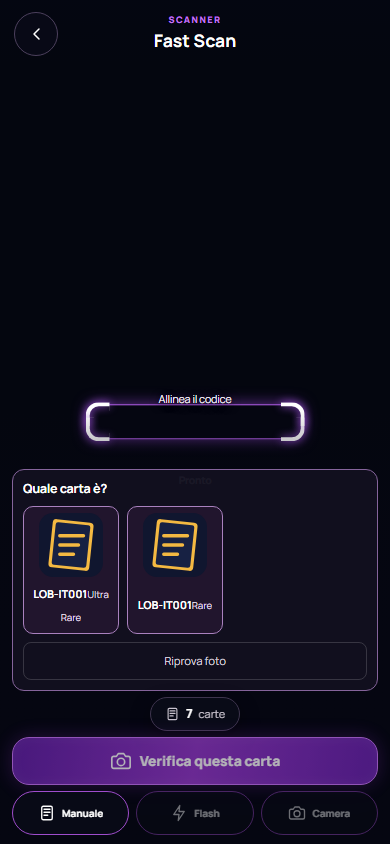
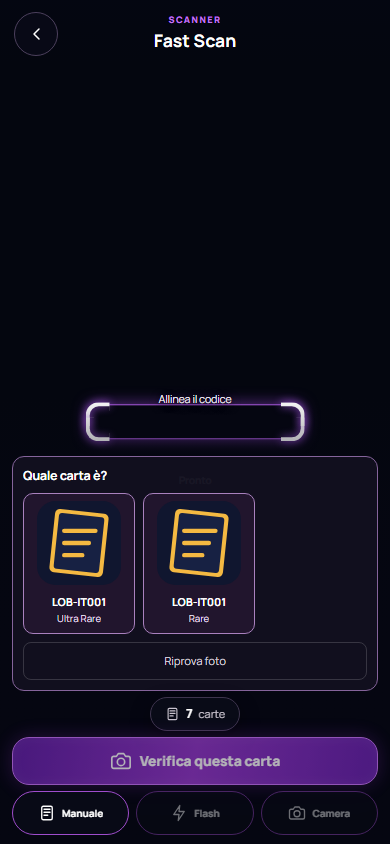
feat(fast-scan): varianti artwork nel picker inline; UX production-ready
Artwork variant (CH01-EN015 e casi simili): quando il registro segnala più
artwork REALI per la stessa identità carta (ygo_artwork_index.artwork_count
>1, mai una stima), il picker "Quale carta è?" mostra ora tutte le opzioni
note invece del placeholder vuoto di un'unica riga "unresolved". Nessuna
seconda logica artwork: riusa esattamente l'infrastruttura esistente
(ygo_printing_registry/ygo_artwork_index via externalLookupViaRegistry) più
i card_images reali di YGOPRODeck (già usati altrove per imageIds/alias, mai
per assumere quale sia quello giusto — qui si mostrano TUTTI, la scelta resta
dell'utente, mai un guess). Ogni opzione porta il proprio catalogCardId reale
(mai inventato), quindi due artwork della stessa carta restano naturalmente
due candidati distinti nel modello identità già esistente
(game:catalogCardId:setCode:rarity) — non serve una nuova dimensione di
chiave. Le opzioni mostrano rarità reale identica + label "Standard"/
"Artwork alternativa"; la rarity non è mai stata reintrodotta come
"New artwork" (root cause del turno precedente, qui solo riverificata).
La scelta sopravvive a session entry e payload di salvataggio, verificato
end-to-end con la fixture CH01-EN015 richiesta.

UX production-ready: la cronologia tecnica completa (eventi, tentativi,
correzioni) è ora dietro this.debugMode nella schermata di sessione — visibile
SOLO con ?debugScan=1, mai nel flusso normale (verificato in entrambi gli
[…]

Changed region(s): [[0.0308, 0.5545, 0.3077, 0.7393], [0.3385, 0.5853, 0.5846, 0.7393]]

diff --git a/js/fast-scan.js b/js/fast-scan.js
@@ -107,7 +107,11 @@ export class FastScanController {
     if(!event||event.status!=='REVIEW_REQUIRED'||!matches?.length)return '';
     const options=matches.slice(0,4);
     const title=options.length>1?'Quale carta è?':'Confermi questa carta?';
-    return `<article class="scan-ambiguous" aria-live="polite"><strong>${title}</strong><div class="scan-ambiguous-options">${options.map((match,index)=>`<button type="button" data-scan-choice="${index}" data-scan-id="${event.id}">${match.imageUrl?`<img src="${esc(match.imageUrl)}" alt="">`:''}<span><b>${esc(match.setCode||'')}</b><small>${esc(match.rarity||'Rarità non indicata')}</small></span></button>`).join('')}</div><button type="button" class="scan-ambiguous-retry" data-scan-retry="${event.id}">Riprova foto</button></article>`;
+    // artworkLabel è presente SOLO quando l'ambiguità riguarda l'illustrazione
+    // (stesso catalogCardId/set/rarità reali, il registro conferma più artwork
+    // note): mai una seconda rarità inventata, solo l'etichetta Standard/
+    // Artwork alternativa accanto ai dati reali già mostrati.
+    return `<article class="scan-ambiguous" aria-live="polite"><strong>${title}</strong><div class="scan-ambiguous-options">${options.map((match,index)=>`<button type="button" data-scan-choice="${index}" data-scan-id="${event.id}">${match.imageUrl?`<img src="${esc(match.imageUrl)}" alt="">`:''}<span><b>${esc(match.setCode||'')}</b><small>${esc(match.rarity||'Rarità non indicata')}</small>${match.artworkLabel?`<small class="scan-ambiguous-label">${esc(match.artworkLabel)}</small>`:''}</span></button>`).join('')}</div><button type="button" class="scan-ambiguous-retry" data-scan-retry="${event.id}">Riprova foto</button></article>`;
   }
   historyView(all=false){
     const events=this.buffer.scanEvents.filter(event=>event.countsAsScan!==false),visible=all?events:events.slice(-5);
@@ -149,7 +153,7 @@ export class FastScanController {
   scannerView(){return `<section class="fast-scan-live ${this.cameraError?'manual-camera':''}"><video id="fast-scan-video" autoplay muted playsinline></video><div class="live-scan-shade"></div><header class="live-scan-header"><button class="live-icon-button" data-scan-back aria-label="Indietro">${icon('arrow')}</button><div><small>Scanner</small><strong>Fast Scan</strong></div><span class="live-header-spacer" aria-hidden="true"></span></header>${this.cameraError?`<div class="live-camera-error"><span>${icon('bell')}</span><strong>${esc(this.cameraError)}</strong><small>Puoi continuare tramite inserimento manuale.</small></div>`:''}<div class="live-roi-label">Allinea il codice</div><div class="live-roi" aria-label="Area di lettura codice"><i></i><span></span></div>${this.debugMode?'<aside class="live-crop-debug" aria-live="polite"><strong>Crop OCR esatto</strong><canvas data-scan-debug-crop></canvas><small data-scan-debug-geometry>In attesa dello scatto</small><small data-scan-debug-stats>In attesa di scan misurati</small><div class="live-crop-debug-export"><button type="button" data-scan-export-telemetry="json">Esporta JSON</button><button type="button" data-scan-export-telemetry="csv">Esporta CSV</button></div></aside>':''}<div class="live-ocr-state"><strong data-scan-status>${esc(this.status)}</strong></div><div class="live-detection ${this.detection?`show ${this.detection.tone}`:''}" data-scan-detection role="status" aria-live="polite" aria-atomic="true">${this.detectionContent(this.detection)}</div><div class="live-background-result ${this.backgroundNotice?`show ${this.backgroundNotice.tone}`:''}" data-scan-background-result role="status" aria-live="polite" aria-atomic="true">${this.detectionContent(this.backgroundNotice)}</div><footer class="live-scan-bottom"><div class="live-scan-content"><div data-scan-assistant>${this.assistantView()}</div><button type="button" class="live-session-count" data-scan-history-review>${icon('card')}<b data-scan-total-number>${this.buffer.total}</b> carte</button><button type="button" class="live-capture" data-scan-capture ${this.snapshotInFlight?'disabled':''}>${icon('camera')}<span>${this.snapshotInFlight?'Elaborazione…':'Scatta e analizza'}</span></button><div class="live-controls"><button data-scan-manual-open>${icon('card')}<span>Manuale</span></button><button data-scan-torch ${this.camera.torchSupported?'':'disabled'}>${icon('flash')}<span>Flash</span></button><button data-scan-switch-camera ${this.devices.length>1?'':'disabled'}>${icon('camera')}<span>Camera</span></button></div></div></footer>${this.exitSheetView()}${this.manualSheetView()}</section>`;}
   exitSheetView(){return `<div class="scan-sheet-backdrop hidden" data-scan-exit-sheet><section class="scan-bottom-sheet" role="dialog" aria-modal="true" aria-labelledby="scan-exit-title"><span class="sheet-handle"></span><small>Sessione Fast Scan</small><h2 id="scan-exit-title">Hai finito?</h2><p>Vediamo cos’hai raccolto allora?</p><div class="sheet-session-summary"><b>${this.buffer.scanned} carte scansionate</b><span>${this.buffer.entries.size} printing · ${this.buffer.review.length} da verificare</span></div><button class="btn" data-scan-confirm-review>Sì, mostrami</button><button class="btn secondary" data-scan-cancel-exit>No, continua a scansionare</button><button class="sheet-danger" data-scan-discard-exit>Scarta sessione</button></section></div>`;}
   manualSheetView(){return `<div class="scan-sheet-backdrop hidden" data-scan-manual-sheet><section class="scan-bottom-sheet" role="dialog" aria-modal="true" aria-labelledby="scan-manual-title"><span class="sheet-handle"></span><small>Fallback</small><h2 id="scan-manual-title">Inserisci codice manualmente</h2><form id="scan-manual-form"><input id="scan-manual-code" autocomplete="off" autocapitalize="characters" placeholder="Es. TDGS-IT001" required><button class="btn">Aggiungi</button></form><button class="btn secondary" data-scan-manual-close>Chiudi</button></section></div>`;}
-  reviewView(){const entries=[...this.buffer.entries.values()],progress=syncProgress(this.sync),failed=this.sync?.status==='error';return `<section class="page-stack fast-scan-page scan-review"><header class="page-header split"><div><span class="eyebrow">Review sessione</span><h1>${this.buffer.scanned} carte rilevate</h1><p>${entries.length} printing · ${this.buffer.review.length} da verificare</p></div><button class="btn secondary" data-scan-continue>Continua scansione</button></header>${failed?`<section class="surface scan-sync-warning" role="alert"><strong>Sincronizzazione interrotta. I tuoi scan sono salvati sul dispositivo.</strong><small>${progress.synced}/${progress.total} blocchi completati · al retry saranno inviati soltanto quelli mancanti.</small><div class="actions"><button class="btn" data-scan-save>Riprova sincronizzazione</button><button class="btn secondary" data-scan-sync-later>Continua più tardi</button><button class="btn secondary" data-scan-export>Esporta riepilogo</button></div></section>`:''}${this.buffer.review.length?`<section class="surface"><h2>Da verificare</h2><div class="scan-review-list">${this.buffer.review.map(item=>reviewRow(item)).join('')}</div></section>`:''}<section class="surface"><div class="dashboard-title"><div><span class="eyebrow">Pronte al salvataggio</span><h2>Printing riconosciute</h2></div></div><div class="scan-review-list">${entries.length?entries.map(entry=>entryRow(entry)).join(''):'<div class="empty">Nessuna printing confermata.</div>'}</div></section><section class="surface scan-history-review" data-scan-history>${this.historyView(true)}</section><div class="scan-save-bar"><span><b>${this.buffer.total}</b> carte saranno aggiunte alla tua raccolta · ${this.buffer.scanEvents.filter(scan=>!['CONFIRMED','CANCELLED'].includes(scan.status)).length} scatti irrisolti esclusi${this.saving&&progress.total?` · ${progress.percent}%`:''}</span><button class="btn" data-scan-save ${!entries.length||this.saving||this.buffer.review.some(item=>item.pending)||!this.isOnline()?'disabled':''}>${this.saving?'Sincronizzazione…':failed?'Riprova sincronizzazione':'Salva raccolta'}</button></div></section>`;}
+  reviewView(){const entries=[...this.buffer.entries.values()],progress=syncProgress(this.sync),failed=this.sync?.status==='error';return `<section class="page-stack fast-scan-page scan-review"><header class="page-header split"><div><span class="eyebrow">Review sessione</span><h1>${this.buffer.scanned} carte rilevate</h1><p>${entries.length} printing · ${this.buffer.review.length} da verificare</p></div><button class="btn secondary" data-scan-continue>Continua scansione</button></header>${failed?`<section class="surface scan-sync-warning" role="alert"><strong>Sincronizzazione interrotta. I tuoi scan sono salvati sul dispositivo.</strong><small>${progress.synced}/${progress.total} blocchi completati · al retry saranno inviati soltanto quelli mancanti.</small><div class="actions"><button class="btn" data-scan-save>Riprova sincronizzazione</button><button class="btn secondary" data-scan-sync-later>Continua più tardi</button><button class="btn secondary" data-scan-export>Esporta riepilogo</button></div></section>`:''}${this.buffer.review.length?`<section class="surface"><h2>Da verificare</h2><div class="scan-review-list">${this.buffer.review.map(item=>reviewRow(item)).join('')}</div></section>`:''}<section class="surface"><div class="dashboard-title"><div><span class="eyebrow">Pronte al salvataggio</span><h2>Printing riconosciute</h2></div></div><div class="scan-review-list">${entries.length?entries.map(entry=>entryRow(entry)).join(''):'<div class="empty">Nessuna printing confermata.</div>'}</div></section>${this.debugMode?`<section class="surface scan-history-review" data-scan-history>${this.historyView(true)}</section>`:''}<div class="scan-save-bar"><span><b>${this.buffer.total}</b> carte saranno aggiunte alla tua raccolta · ${this.buffer.scanEvents.filter(scan=>!['CONFIRMED','CANCELLED'].includes(scan.status)).length} scatti irrisolti esclusi${this.saving&&progress.total?` · ${progress.percent}%`:''}</span><button class="btn" data-scan-save ${!entries.length||this.saving||this.buffer.review.some(item=>item.pending)||!this.isOnline()?'disabled':''}>${this.saving?'Sincronizzazione…':failed?'Riprova sincronizzazione':'Salva raccolta'}</button></div></section>`;}
   bind(root=document){this.reattachVideo();this.updateCaptureUi(this.snapshotInFlight);root.querySelector('#fast-scan-settings')?.addEventListener('submit',e=>{e.preventDefault();this.readSettings();void this.start();});root.querySelector('[data-scan-setup-back]')?.addEventListener('click',()=>void this.exitToCollection());root.querySelector('[data-scan-manual-start]')?.addEventListener('click',()=>{this.readSettings();this.startManual();});root.querySelector('[data-scan-resume-session]')?.addEventListener('click',()=>{this.hasRecovery=false;void this.start();});root.querySelector('[data-scan-recovery-review]')?.addEventListener('click',()=>void this.openReview());root.querySelector('[data-scan-discard]')?.addEventListener('click',()=>void this.discard());root.querySelector('[data-scan-back]')?.addEventListener('click',()=>void this.requestExit());root.querySelector('[data-scan-confirm-review]')?.addEventListener('click',()=>void this.openReview());root.querySelector('[data-scan-cancel-exit]')?.addEventListener('click',()=>this.cancelExit());root.querySelector('[data-scan-discard-exit]')?.addEventListener('click',()=>void this.discardAndExit());root.querySelector('[data-scan-continue]')?.addEventListener('click',()=>{if(!this.canEditSession())return;this.onRoute?.('scan');void this.start();});root.querySelector('[data-scan-manual-open]')?.addEventListener('click',()=>this.toggleManual(true));root.querySelector('[data-scan-history-review]')?.addEventListener('click',()=>void this.openReview());root.querySelector('[data-scan-manual-close]')?.addEventListener('click',()=>this.toggleManual(false));root.querySelector('[data-scan-capture]')?.addEventListener('click',()=>this.requestSnapshot());root.querySelector('[data-scan-torch]')?.addEventListener('click',async e=>{const on=await this.camera.toggleTorch();e.currentTarget.classList.toggle('active',on);e.currentTarget.querySelector('span').textContent=on?'Flash on':'Flash';});root.querySelector('[data-scan-switch-camera]')?.addEventListener('click',()=>void this.switchCamera());root.querySelector('#scan-manual-form')?.addEventListener('submit',e=>{e.preventDefault();const input=root.querySelector('#scan-manual-code');void (this.editScanId?this.correctReview(this.editScanId,input.value):this.processManual(input.value)).then(()=>{input.value='';input.focus();});});root.querySelectorAll('[data-scan-qty-inc]').forEach(button=>button.addEventListener('click',()=>{if(!this.canEditSession())return;const key=button.dataset.scanQtyInc,item=this.buffer.entries.get(key);if(!item)return;this.invalidateSync();this.buffer.updateQuantity(key,item.quantity+1);this.persist();this.onRender();}));root.querySelectorAll('[data-scan-qty-dec]').forEach(button=>button.addEventListener('click',()=>{if(!this.canEditSession())return;const key=button.dataset.scanQtyDec,item=this.buffer.entries.get(key);if(!item)return;this.invalidateSync();this.buffer.updateQuantity(key,item.quantity-1);this.persist();this.onRender();}));root.querySelectorAll('[data-scan-first-edition]').forEach(button=>button.addEventListener('click',()=>{if(!this.canEditSession())return;const key=button.dataset.scanFirstEdition,item=this.buffer.entries.get(key);if(!item)return;this.invalidateSync();this.buffer.setEdition(key,isFirstEdition(item.edition)?'Unlimited':'Prima Edizione');this.persist();this.onRender();}));root.querySelectorAll('[data-scan-remove]').forEach(button=>button.addEventListener('click',()=>{if(!this.canEditSession())return;this.invalidateSync();this.buffer.updateQuantity(button.dataset.scanRemove,0);this.persist();this.onRender();}));root.querySelectorAll('[data-review-choice]').forEach(button=>button.addEventListener('click',()=>this.chooseReview(button.dataset.reviewId,Number(button.dataset.reviewChoice))));root.querySelectorAll('[data-review-ignore]').forEach(button=>button.addEventListener('click',()=>{if(!this.canEditSession())return;this.invalidateSync();this.buffer.removeReview(button.dataset.reviewIgnore);this.persist();this.onRender();}));root.querySelectorAll('[data-review-correct]').forEach(button=>button.addEventListener('click',()=>{const input=root.querySelector(`[data-review-input="${button.dataset.reviewCorrect}"]`);void this.correctReview(button.dataset.reviewCorrect,input.value);}));root.querySelectorAll('[data-scan-save]').forEach(button=>button.addEventListener('click',()=>void this.save()));root.querySelector('[data-scan-sync-later]')?.addEventListener('click',()=>{this.hasRecovery=true;this.onRoute?.('collection');});root.querySelector('[data-scan-export]')?.addEventListener('click',()=>this.exportSummary());root.querySelectorAll('[data-scan-export-telemetry]').forEach(button=>button.addEventListener('click',()=>this.exportTelemetry(button.dataset.scanExportTelemetry)));}
   readSettings(){const pick=id=>document.querySelector(id);this.buffer.settings={game:'yugioh',language:pick('#scan-language')?.value||'Italiano',condition:pick('#scan-condition')?.value||'Near Mint',edition:pick('#scan-edition')?.value.trim()||'',autoAdd:Boolean(pick('#scan-auto')?.checked),vibration:Boolean(pick('#scan-vibration')?.checked),sound:Boolean(pick('#scan-sound')?.checked)};this.persist();}
   startManual(){this.startRequestId+=1;this.camera.stop('manual-mode');this.recoveringCamera=false;this.cameraStarting=false;this.stopLoop();this.phase='scanning';this.cameraError='Modalità manuale';this.status='Inserisci un codice';this.onRoute?.('scan');this.onRender();}
@@ -812,11 +816,11 @@ export function selectSnapshotOcrResult(readings=[],{avoidCode=''}={}){
 function ocrReadingScore(reading){const normalized=normalizeSetCode(reading?.text||''),near=normalized.code.includes('-')&&normalized.code.length>=5;return (normalized.valid?10000:near?1000:0)+(Number(reading?.confidence)||0);}
 function ocrReadingSummary(readings=[]){const values=readings.map(reading=>String(reading?.text||'').replace(/\s+/g,'').replace(/[^A-Z0-9-]/gi,'').toUpperCase()).filter(Boolean);return [...new Set(values)].join(' / ').slice(0,48);}
 function toggle(id,label,checked){return `<label class="scan-toggle"><input id="${id}" type="checkbox" ${checked?'checked':''}><span><strong>${label}</strong><small>${checked?'Attivo':'Disattivato'}</small></span></label>`;}
-function entryRow(item){const firstEdition=isFirstEdition(item.edition);return `<article class="scan-review-row"><div>${item.imageUrl?`<img src="${esc(item.imageUrl)}" alt="">`:icon('card')}<span><strong>${esc(item.cardName)}</strong><small>${esc([item.setCode,item.rarity,item.confidence,item.warning].filter(Boolean).join(' · '))}</small></span></div><div class="scan-review-controls"><div class="scan-qty-stepper"><button type="button" data-scan-qty-dec="${esc(item.key)}" aria-label="Diminuisci quantità">−</button><b>${item.quantity}</b><button type="button" data-scan-qty-inc="${esc(item.key)}" aria-label="Aumenta quantità" ${item.quantity>=999?'disabled':''}>+</button></div><button type="button" class="scan-first-edition-toggle ${firstEdition?'active':''}" data-scan-first-edition="${esc(item.key)}" aria-pressed="${firstEdition}">1ª Ed.</button><button class="btn secondary danger small" data-scan-remove="${esc(item.key)}">Rimuovi</button></div></article>`;}
+function entryRow(item){const firstEdition=isFirstEdition(item.edition);return `<article class="scan-review-row"><div>${item.imageUrl?`<img src="${esc(item.imageUrl)}" alt="">`:icon('card')}<span><strong>${esc(item.cardName)}</strong><small>${esc([item.setCode,item.rarity,item.artworkLabel].filter(Boolean).join(' · '))}</small></span></div><div class="scan-review-controls"><div class="scan-qty-stepper"><button type="button" data-scan-qty-dec="${esc(item.key)}" aria-label="Diminuisci quantità">−</button><b>${item.quantity}</b><button type="button" data-scan-qty-inc="${esc(item.key)}" aria-label="Aumenta quantità" ${item.quantity>=999?'disabled':''}>+</button></div><button type="button" class="scan-first-edition-toggle ${firstEdition?'active':''}" data-scan-first-edition="${esc(item.key)}" aria-pressed="${firstEdition}">1ª Ed.</button><button class="btn secondary danger small" data-scan-remove="${esc(item.key)}">Rimuovi</button></div></article>`;}
 function reviewRow(item){
   // An ignored pending row cannot be resurrected by a late background result.
   if(item.pending)return `<article class="scan-review-row warning pending"><div>${icon('bell')}<span><strong>${esc(item.code||item.raw||'Codice non riconosciuto')}</strong><small>${esc(item.warning||'Verifica in corso…')}</small></span></div><button class="btn secondary small" data-review-ignore="${item.id}">Ignora</button></article>`;
-  return `<article class="scan-review-row warning"><div>${icon('bell')}<span><strong>${esc(item.code||item.raw||'Codice non riconosciuto')}</strong><small>${esc([item.warning,item.ocrConfidence?`confidence ${Math.round(item.ocrConfidence)}%`:''].filter(Boolean).join(' · '))}</small></span></div>${item.matches?.length?`<div class="review-choices">${item.matches.map((match,index)=>`<button class="btn secondary small" data-review-choice="${index}" data-review-id="${item.id}">${esc(match.cardName)} · ${esc(match.rarity||'Rarità non indicata')}</button>`).join('')}</div>`:`<div class="review-correction"><input data-review-input="${item.id}" value="${esc(item.code||'')}" placeholder="Correggi codice"><button class="btn secondary small" data-review-correct="${item.id}">Cerca</button></div>`}<button class="btn secondary small" data-review-ignore="${item.id}">Ignora</button></article>`;
+  return `<article class="scan-review-row warning"><div>${icon('bell')}<span><strong>${esc(item.code||item.raw||'Codice non riconosciuto')}</strong><small>${esc(item.warning||'')}</small></span></div>${item.matches?.length?`<div class="review-choices">${item.matches.map((match,index)=>`<button class="btn secondary small" data-review-choice="${index}" data-review-id="${item.id}">${esc(match.cardName)} · ${esc(match.rarity||'Rarità non indicata')}${match.artworkLabel?` · ${esc(match.artworkLabel)}`:''}</button>`).join('')}</div>`:`<div class="review-correction"><input data-review-input="${item.id}" value="${esc(item.code||'')}" placeholder="Correggi codice"><button class="btn secondary small" data-review-correct="${item.id}">Cerca</button></div>`}<button class="btn secondary small" data-review-ignore="${item.id}">Ignora</button></article>`;
 }
 function mapPrinting(row){return {printingId:row.printing_id||row.printingId||'',game:row.game||'yugioh',catalogCardId:String(row.catalog_card_id||row.catalogCardId||''),cardName:row.card_name||row.cardName,setCode:row.set_code||row.setCode,setName:row.set_name||row.setName||'',rarity:row.rarity||'',imageUrl:row.image_url||row.imageUrl||''};}
 function dedupe(items){return [...new Map(items.map(item=>[[item.printingId,item.catalogCardId,item.setCode,item.rarity].join(':'),item])).values()];}

diff --git a/js/ygo-printing-registry.js b/js/ygo-printing-registry.js
@@ -36,7 +36,7 @@
 // via costruttore invece di importarlo: permette ai test di sostituirlo con
 // un fake senza toccare window/Supabase.
 import { api as defaultApi } from './api.js';
-import { findCard, lookupPrintingBySetCode } from './cards.js';
+import { findCard, findCardById, lookupPrintingBySetCode } from './cards.js';
 
 const YGORESOURCES_BASE = 'https://db.ygoresources.com';
 const FETCH_TIMEOUT_MS = 6000;
@@ -264,6 +264,10 @@ async function toPrinting(setCode, resolution, deps) {
     konamiCardId: resolution.konamiCardId || '', artworkIndex: resolution.artworkIndex || '',
     mappingSource: resolution.mappingSource || '', mappingConfidence: resolution.mappingConfidence || '',
     mappingStatus: resolution.mappingStatus, mappingNotes: resolution.mappingNotes || '',
+    // >1 solo quando ygo_artwork_index conferma più artwork REALI per questo
+    // Konami ID (mai una stima): segnale per il chiamante (Fast Scan) per
+    // esporre le varianti al picker invece di mostrare un placeholder vuoto.
+    artworkCount: Number(resolution.artworkCount) || 0,
     // Sovrascritto dal chiamante una volta noto l'esito reale della
     // persistenza (vedi resolveExternally/resolveYgoPrintings) — di default
     // true perché una parte dei chiamanti di toPrinting (precedenza da
@@ -435,7 +439,8 @@ async function resolveExternally(codes, result, deps) {
         : `Identità nota tramite indice nomi YGOResources (print code non indicizzato) — ${artwork ? `${artwork.artwork_count} artwork disponibili, nessuna regola per scegliere quello corretto` : 'artwork non ancora sincronizzato localmente'}`;
       byNameIndexMappings.push({ code, resolution: {
         konamiCardId, cardName: enName, artworkIndex: deterministic ? '1' : '', artworkUrl: deterministic ? artwork.single_artwork_url : '',
-        mappingSource: 'ygoresources', mappingConfidence: deterministic ? 'high' : 'low', mappingStatus, mappingNotes
+        mappingSource: 'ygoresources', mappingConfidence: deterministic ? 'high' : 'low', mappingStatus, mappingNotes,
+        artworkCount: artwork ? Number(artwork.artwork_count) || 0 : 0
       } });
     }
 
@@ -475,7 +480,8 @@ async function resolveExternally(codes, result, deps) {
       : 'artwork non ancora sincronizzato localmente (scripts/ygo-artwork-index-sync.mjs)');
     const resolution = {
       konamiCardId, artworkIndex: deterministic ? '1' : '', artworkUrl: deterministic ? artwork.single_artwork_url : '',
-      mappingSource: 'ygoresources', mappingConfidence: deterministic ? 'high' : 'low', mappingStatus, mappingNotes
+      mappingSource: 'ygoresources', mappingConfidence: deterministic ? 'high' : 'low', mappingStatus, mappingNotes,
+      artworkCount: artwork ? Number(artwork.artwork_count) || 0 : 0
     };
     mappingsToApply.push({ code, resolution });
   }
@@ -534,11 +540,30 @@ export async function resolveYgoPrinting(setCode, options = {}) {
 // più rarità note per la stessa identità carta, la scelta resta all'utente
 // in review, ma l'immagine è SEMPRE quella verificata dal registro, mai
 // quella indovinata dal vecchio percorso.
-export async function externalLookupViaRegistry(setCode, game = 'yugioh') {
+// options è iniettabile per i test (default: resolveYgoPrinting/findCardById/
+// lookupPrintingBySetCode reali) — stesso pattern di resolveYgoPrintings.
+export async function externalLookupViaRegistry(setCode, game = 'yugioh', options = {}) {
   if (game !== 'yugioh') return [];
-  const printing = await resolveYgoPrinting(setCode);
+  const { findCardByIdImpl = findCardById, lookupPrintingBySetCodeImpl = lookupPrintingBySetCode, ...resolveOptions } = options;
+  const printing = await resolveYgoPrinting(setCode, { ...resolveOptions, lookupPrintingBySetCode: lookupPrintingBySetCodeImpl });
   if (!printing.catalogCardId) return [];
-  const legacyMatches = await lookupPrintingBySetCode(setCode).catch(() => []);
+  // Il registro segnala esplicitamente più artwork REALI per questa identità
+  // Konami (mai una stima): espone le varianti note da YGOPRODeck come
+  // candidati distinti — ognuno con il proprio catalogCardId reale, mai
+  // inventato — invece del placeholder vuoto di un'unica riga "unresolved".
+  // Identità/rarità restano quelle già confermate su questo setCode: solo
+  // artwork e catalogCardId cambiano fra le opzioni.
+  if (printing.mappingStatus === 'unresolved' && printing.artworkCount > 1) {
+    const card = await findCardByIdImpl(printing.catalogCardId, printing.cardName, game).catch(() => null);
+    const variants = card?.artworkVariants || [];
+    if (variants.length > 1) {
+      return variants.map((variant, index) => ({
+        ...printing, catalogCardId: variant.id, imageUrl: variant.imageUrl,
+        artworkLabel: index === 0 ? 'Standard' : 'Artwork alternativa'
+      }));
+    }
+  }
+  const legacyMatches = await lookupPrintingBySetCodeImpl(setCode).catch(() => []);
   const sameIdentity = legacyMatches.filter(match => String(match.catalogCardId) === printing.catalogCardId);
   if (sameIdentity.length > 1) {
     return sameIdentity.map(match => ({

diff --git a/js/fast-scan-core.js b/js/fast-scan-core.js
@@ -138,7 +138,7 @@ export class ScanSessionBuffer {
     // snapshot), a YGOProDeck artwork/reprint tag can never survive as a
     // literal rarity from here on — see js/cards.js sanitizeYugiohRarity.
     const rarity=game==='yugioh'?sanitizeYugiohRarity(value.rarity):(value.rarity||'');
-    return {key:value.key||value.printingId||[game,value.catalogCardId,value.setCode,rarity].join(':'),printingId:value.printingId||'',game,catalogCardId:String(value.catalogCardId||''),cardName:value.cardName||'',setCode:value.setCode||'',setName:value.setName||'',rarity,imageUrl:value.imageUrl||'',language:value.language||(game==='yugioh'?languageFromSetCode(value.setCode,this.settings.language):this.settings.language),condition:value.condition||this.settings.condition,edition:value.edition??this.settings.edition};
+    return {key:value.key||value.printingId||[game,value.catalogCardId,value.setCode,rarity].join(':'),printingId:value.printingId||'',game,catalogCardId:String(value.catalogCardId||''),cardName:value.cardName||'',setCode:value.setCode||'',setName:value.setName||'',rarity,imageUrl:value.imageUrl||'',artworkLabel:value.artworkLabel||'',language:value.language||(game==='yugioh'?languageFromSetCode(value.setCode,this.settings.language):this.settings.language),condition:value.condition||this.settings.condition,edition:value.edition??this.settings.edition};
   }
   createScan(data={}){
     const event={id:data.id||crypto.randomUUID(),sequence:data.countsAsScan===false?0:this.nextSequence++,createdAt:new Date().toISOString(),status:data.status||'CAPTURED',rawCode:data.rawCode||'',normalizedCode:data.normalizedCode||'',ocrConfidence:Number(data.ocrConfidence)||0,matchType:'',printingId:'',cardName:'',setCode:'',rarity:'',imageUrl:'',source:data.source||'camera',failureReason:data.failureReason||'',resolutionVersion:0,countsAsScan:data.countsAsScan!==false};

diff --git a/styles.css b/styles.css
@@ -1080,10 +1080,11 @@ body[data-page="home"][data-game="yugioh"] .duel-dashboard::after {
 .scan-ambiguous { display:grid;gap:8px;padding:10px;border:1px solid #85649b;border-radius:12px;background:#12101fed; }
 .scan-ambiguous strong { font-size:.78rem;color:#fff; }
 .scan-ambiguous-options { display:flex;gap:8px;overflow-x:auto; }
-.scan-ambiguous-options button { display:grid;gap:4px;flex:0 0 auto;width:96px;padding:6px;border:1px solid #a981be;border-radius:10px;background:#21152d;color:#fff;text-align:center;cursor:pointer; }
-.scan-ambiguous-options img { width:100%;height:64px;object-fit:contain; }
+.scan-ambiguous-options button { display:grid;gap:4px;flex:0 0 auto;width:112px;padding:7px;border:1px solid #a981be;border-radius:10px;background:#21152d;color:#fff;text-align:center;cursor:pointer; }
+.scan-ambiguous-options img { width:100%;height:84px;object-fit:contain; }
 .scan-ambiguous-options b { font-size:.68rem; }
-.scan-ambiguous-options small { color:#e2dbea;font-size:.6rem; }
+.scan-ambiguous-options small { display:block;color:#e2dbea;font-size:.6rem; }
+.scan-ambiguous-options .scan-ambiguous-label { margin-top:2px;color:#d9a4ff;font-weight:700; }
 .scan-ambiguous-retry { min-height:38px;border:1px solid #ffffff29;border-radius:8px;background:transparent;color:#d5cedb;font-size:.7rem;cursor:pointer; }
 .scan-ambiguous-options button:focus-visible,.scan-ambiguous-retry:focus-visible { outline:2px solid #f8d982;outline-offset:2px; }
 .live-detection img { width:38px;height:54px;object-fit:contain;justify-self:center; }

diff --git a/js/cards.js b/js/cards.js
@@ -436,6 +436,11 @@ function mapCard(card) {
     fullImage: artwork.image_url || artwork.image_url_small || artwork.image_url_cropped || '',
     banTcg: normalizeTcgBanStatus(card.banlist_info?.ban_tcg),
     imageIds: artworks.map(image => String(image.id || '')).filter(Boolean),
+    // Ogni artwork alternativo di YGOPRODeck ha un id carta reale proprio
+    // (mai inventato qui) — usato SOLO quando il registro segnala esplicitamente
+    // più artwork per la stessa identità (vedi ygo-printing-registry.js), per
+    // esporre le opzioni reali al picker invece di indovinarne una.
+    artworkVariants: artworks.map(image => ({id: String(image.id || ''), imageUrl: image.image_url || image.image_url_small || ''})).filter(item => item.id && item.imageUrl),
     printings: normalizeCatalogPrintings(card.card_sets || [])
   };
 }
